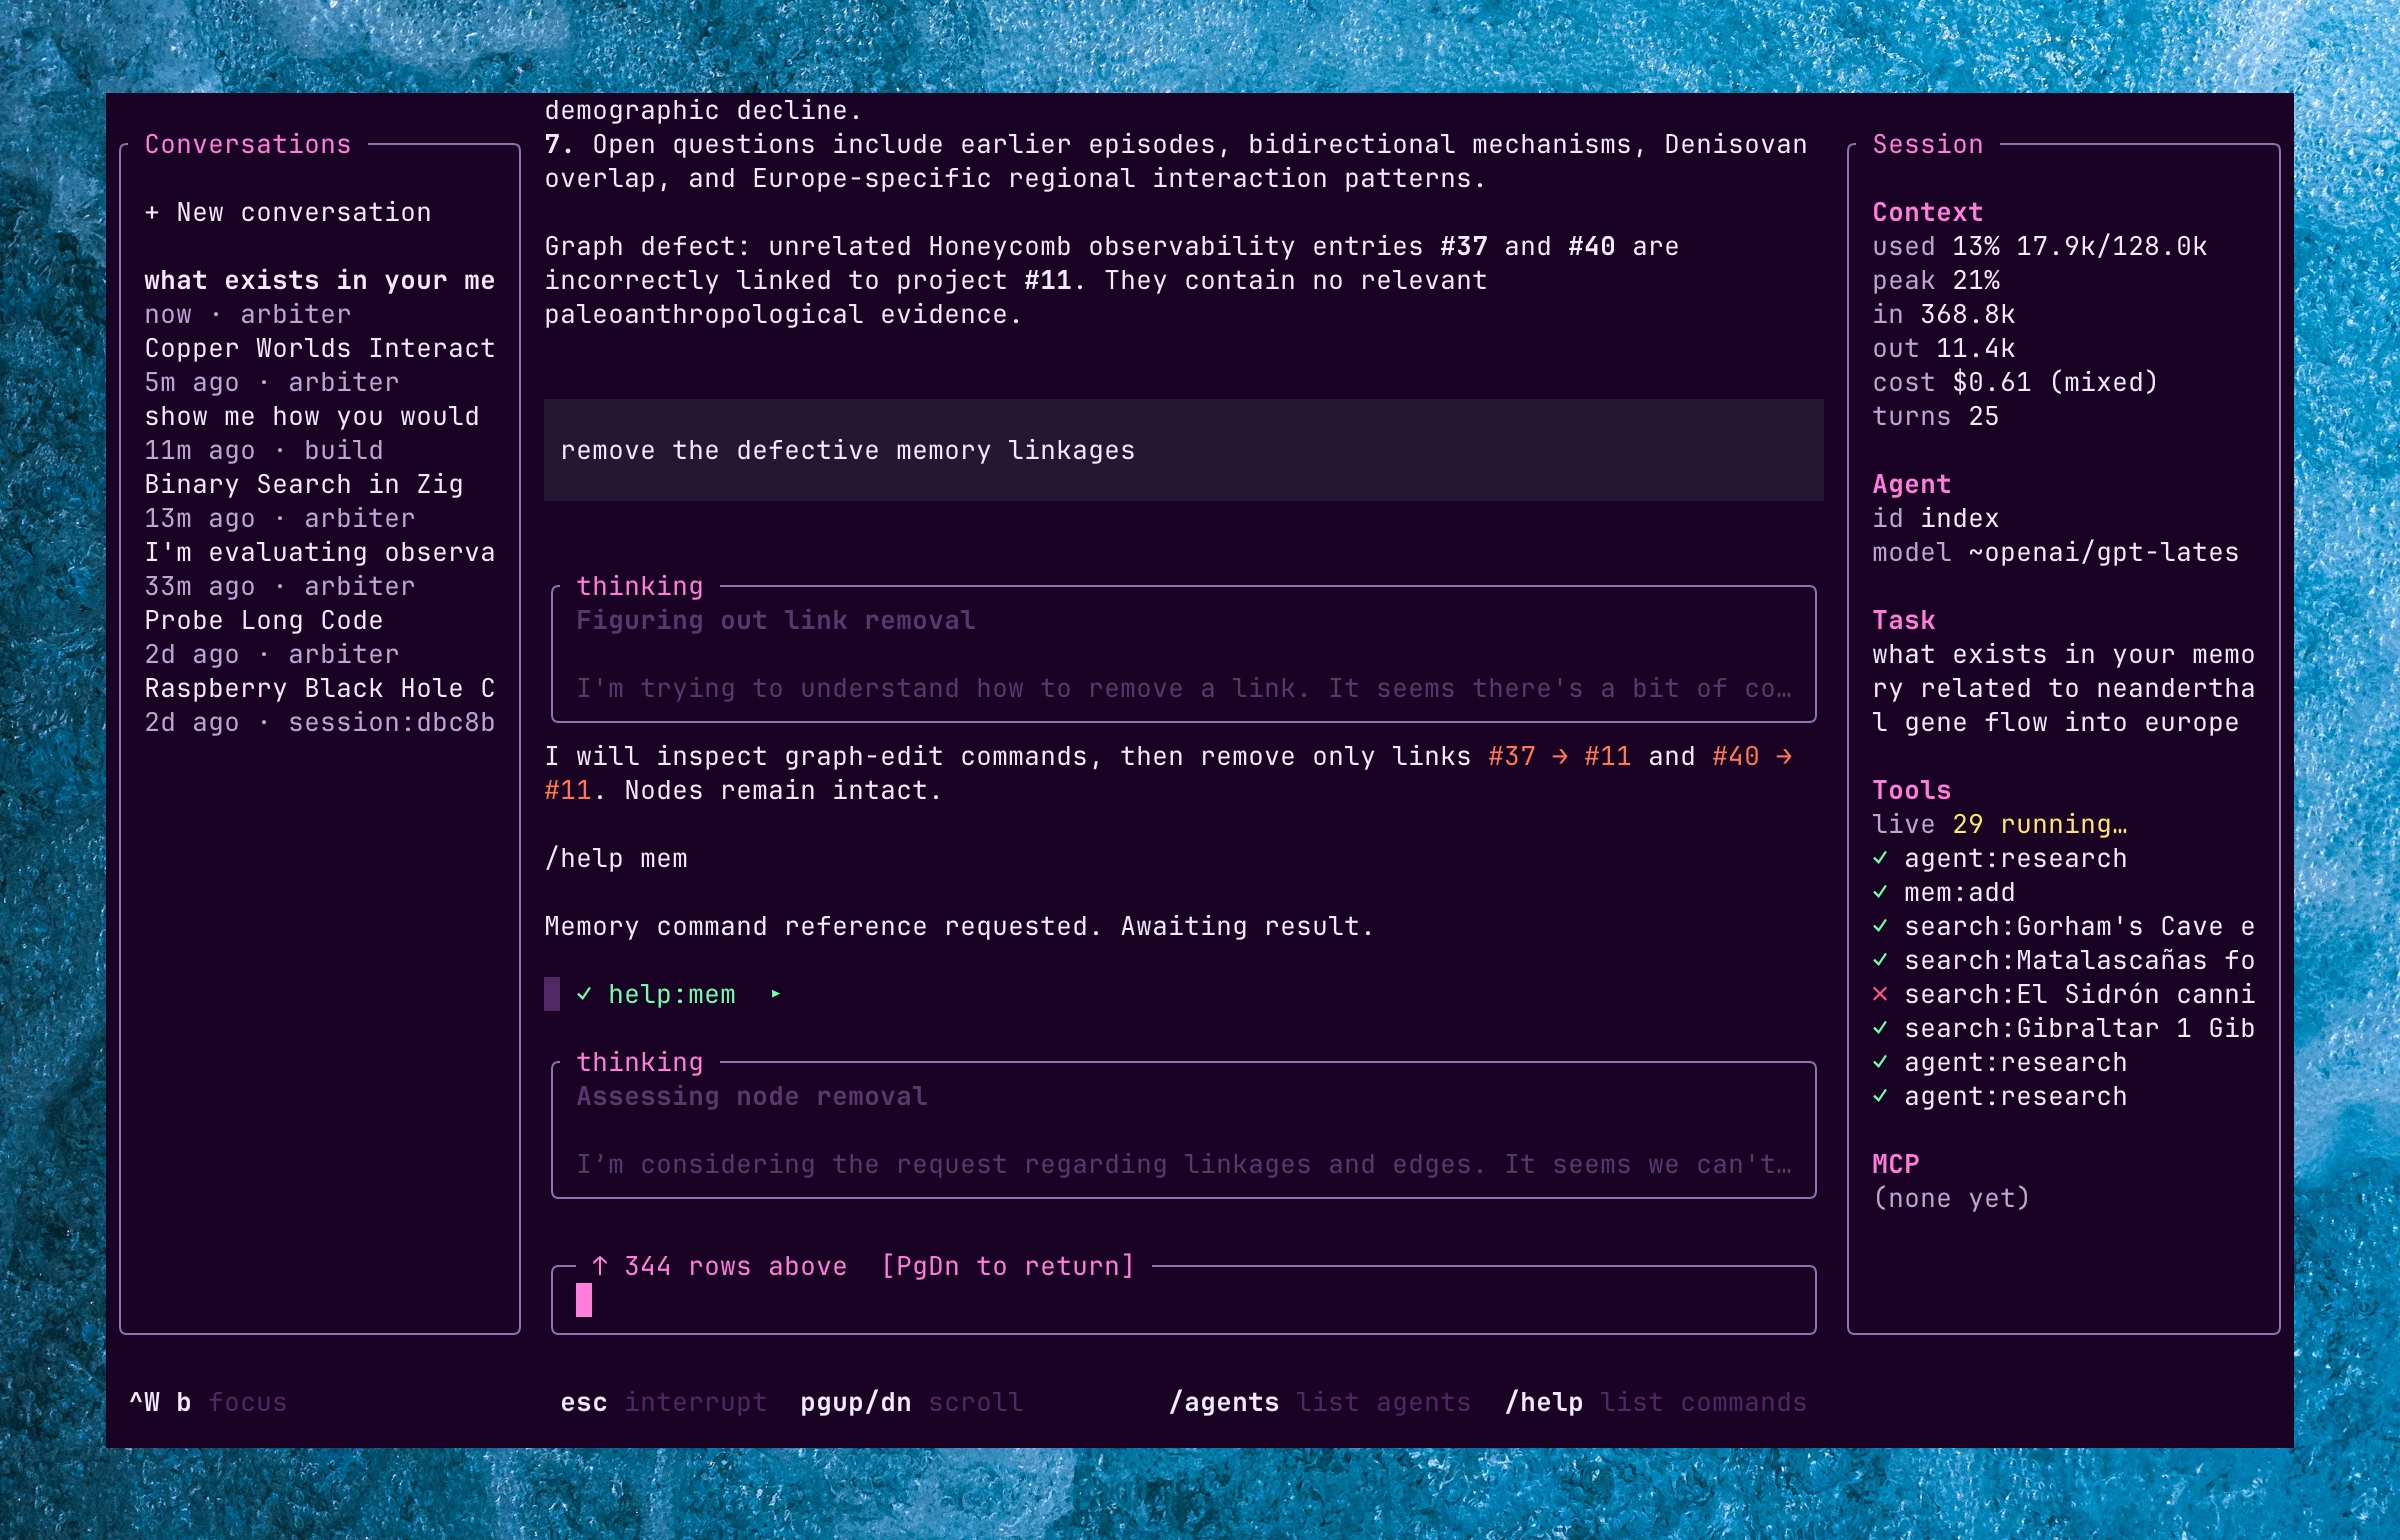
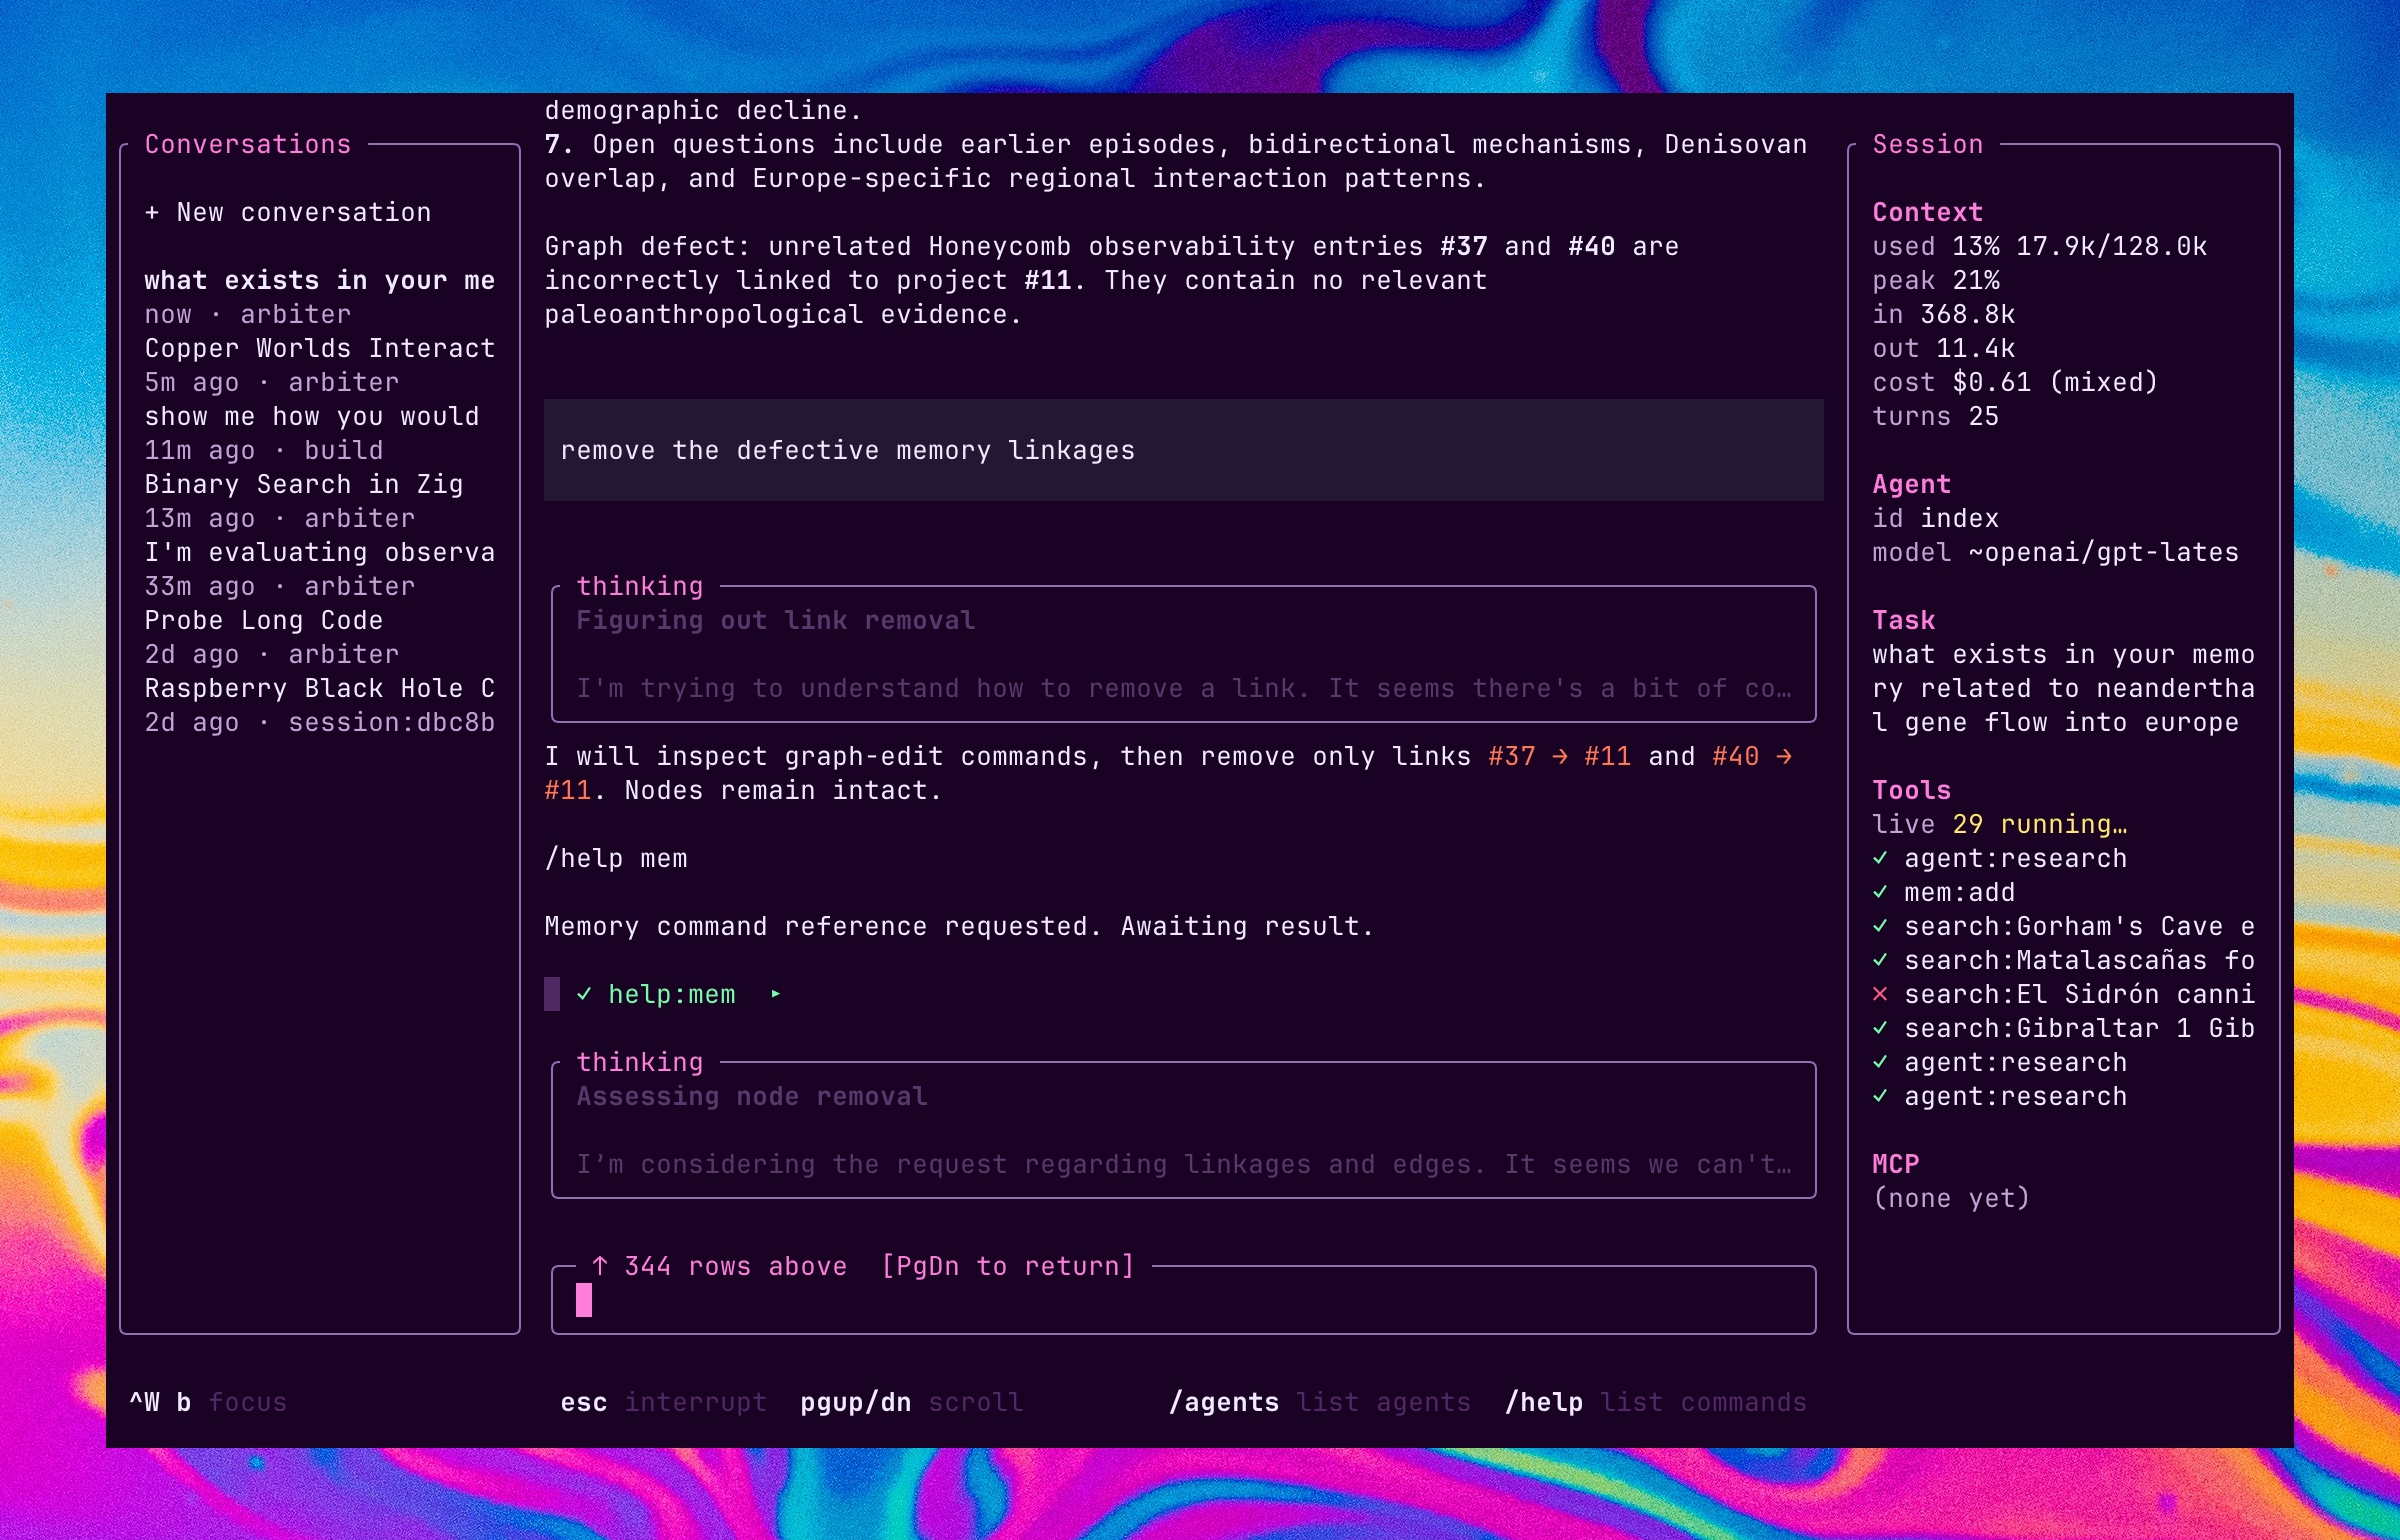
Fix duplicated user echo padding in CI.
Keep echo source rows unpadded so the render path owns vertical chrome, and apply only one horizontal inset while wrapping.

Changed region(s): [[0.0, 0.0, 1.0, 1.0]]

diff --git a/README.md b/README.md
@@ -98,7 +98,5 @@ Backgrounds, text, borders, markdown and diff syntax colors, even the
 and column breakpoints. Full reference in
 [`docs/tui/themes.md`](docs/tui/themes.md).
 
-![Arbiter theme presets](assets/themes.jpg)
-
 
 Licensed under the [Apache License 2.0](LICENSE).